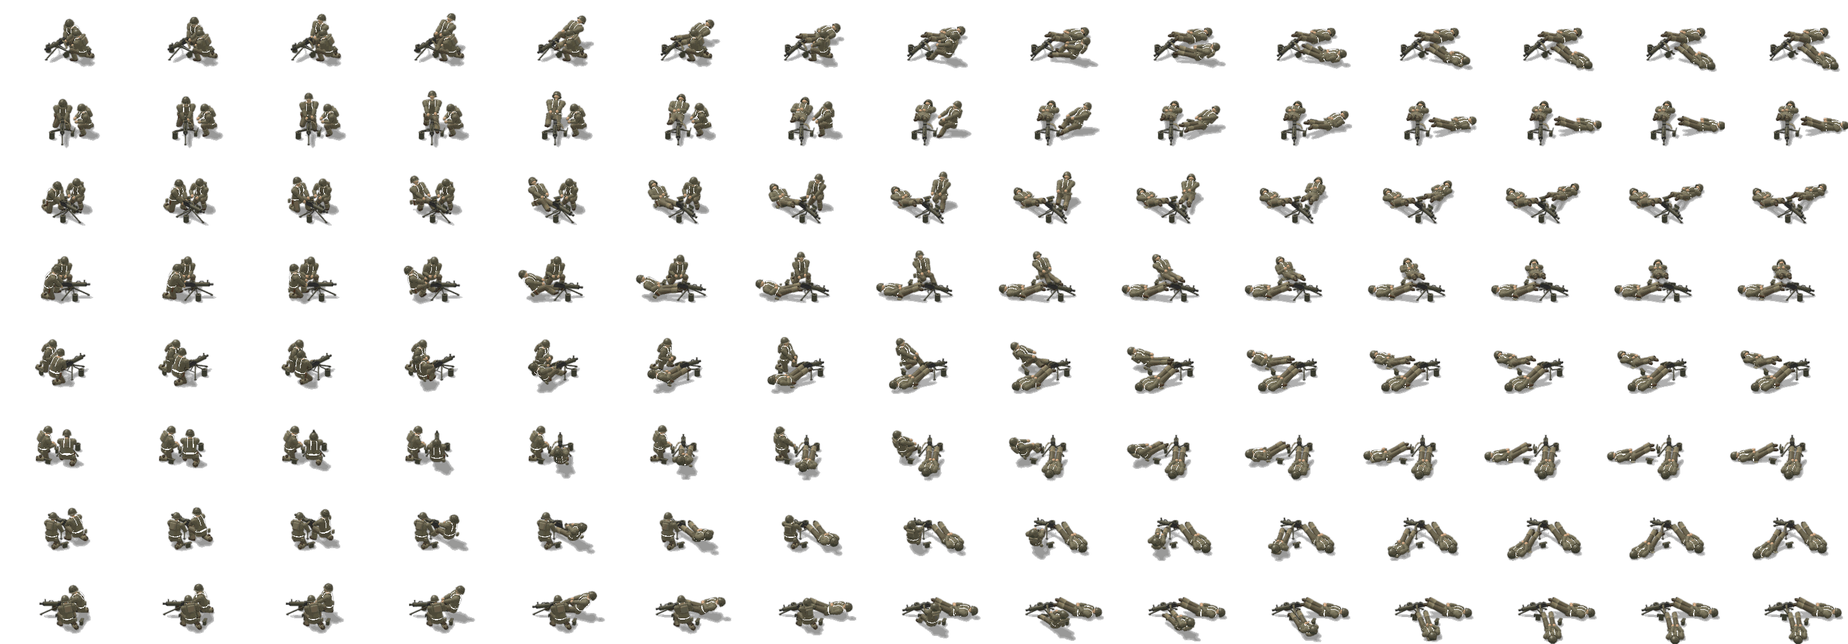
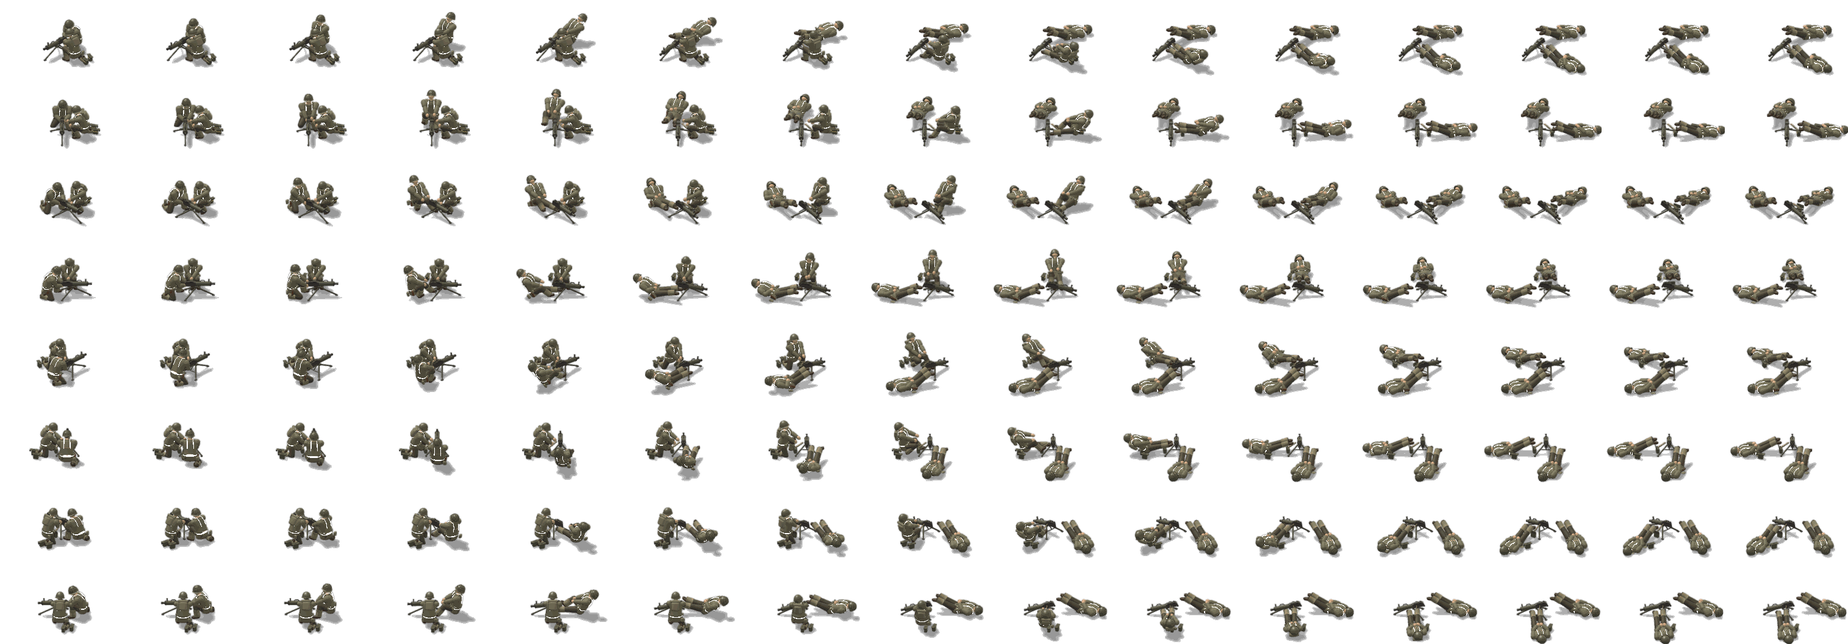
Round 2d: Japanese Rifleman and Battalion after the third review; the Skirmisher's death no longer pops (Militia untouched)
Japanese Rifleman: one smooth horseshoe blanket roll in the civ colour tied with four straps; narrower body, lower collar, head raised; olive tunic over light tan breeches, lighter cartridge boxes; the cap closed underneath with a cloth peak; the bayonet thrust forward and level, back over three frames; death eases out of the idle pose.
Battalion: the gunner low behind the gun, hands on the grip, the assistant at the gun's left feeding the belt from an open M1 can; condenser can and hose removed; recoil and feeding in the attack; a hand on the shouldered gun in the run, the two out of step; the gunner slumps off clear of the gun in the death; darker trousers and pocket flaps.

diff --git a/ArtGen/units/models/line_foot.py b/ArtGen/units/models/line_foot.py
@@ -239,7 +239,8 @@ class LineBody(LF.LeagueBody):
                     add('chest', M.extrude([(-0.04, 0.0), (0.04, 0.0), (0.0, -0.09)], 0.02, top).transformed(
                         M.translate(sx * 0.07, 0.095, 0.33) @ M.rot_z(sx * 22) @ M.rot_x(-30)))
                 elif jk == 'm41':
-                    add('pelvis', _flap(top, (sx * 0.16 * tw, 0.175, 0.02), 0.10, 0.03, 0.02, yaw=sx * 30))
+                    add('pelvis', _flap(self.mm('pocket_flap', '#4e4c36'), (sx * 0.16 * tw, 0.178, 0.02), 0.11, 0.04, 0.024,
+                                        yaw=sx * 30))
                     add('chest', M.rounded_box(0.12, 0.05, 0.016, top, (sx * 0.17, -0.01, 0.315), r=0.006, seg=4, p=4))
                     add('chest', M.extrude([(-0.045, 0.0), (0.045, 0.0), (0.0, -0.08)], 0.02, top).transformed(
                         M.translate(sx * 0.07, 0.09, 0.335) @ M.rot_z(sx * 25) @ M.rot_x(-35)))
@@ -255,7 +256,7 @@ class LineBody(LF.LeagueBody):
                     add('chest', M.rounded_box(0.016, 0.05, 0.045, self.mm('collar_tab', '#a8302a'),
                                                (sx * 0.103, 0.035, 0.33), r=0.005, seg=4).transformed(M.rot_z(sx * 20)))
             if jk == 'type98':
-                add('chest', M.loft([(0.28, 0.105, 0.092, 0, 0.0), (0.36, 0.09, 0.082, 0, -0.004)], top, seg=14,
+                add('chest', M.loft([(0.28, 0.105, 0.092, 0, 0.0), (0.33, 0.092, 0.084, 0, -0.004)], top, seg=14,
                                     cap_bottom=False, cap_top=False))
             if jk == 'jungle':
                 # the placket down the front, in the fatigues' olive
@@ -516,11 +517,11 @@ class LineBody(LF.LeagueBody):
             hm = self.mm('hat', '#7e784c')
             # the crown: straight sides, a flat top with its seam
             add(M.loft([(0.115, 0.118, 0.13, 0, -0.006), (0.20, 0.123, 0.135, 0, -0.01), (0.245, 0.117, 0.129, 0, -0.012),
-                        (0.27, 0.095, 0.105, 0, -0.012), (0.282, 0.05, 0.055, 0, -0.012)], hm, seg=18, cap_bottom=False,
+                        (0.27, 0.095, 0.105, 0, -0.012), (0.282, 0.05, 0.055, 0, -0.012)], hm, seg=18, cap_bottom=True,
                        cap_top=True))
             bd = self.mm('hatband', '#ffffff')
             add(M.cylinder(0.128, 0.128, 0.072, bd, seg=18, z0=0.104).transformed(M.translate(0, -0.006, 0) @ M.scale(1, 1.08, 1)))
-            vm = self.mm('visor', '#3e2c1e', spec=0.15, gloss=14)
+            vm = self.mm('visor', '#7a7448', spec=0.06, gloss=10)
             add(M.ellipsoid(0.095, 0.065, 0.013, vm, (0, 0.135, 0.118), seg=14).transformed(
                 M.translate(0, 0.135, 0.118) @ M.rot_x(26) @ M.translate(0, -0.135, -0.118)))
             add(M.extrude([(0.0, 0.03), (0.009, 0.009), (0.03, 0.009), (0.013, -0.004), (0.019, -0.026), (0.0, -0.012),
@@ -540,7 +541,7 @@ class LineBody(LF.LeagueBody):
 
 # ------------------------------------------------------------ death
 
-def line_death(base, ctx, hold=None, delay=0.0):
+def line_death(base, ctx, hold=None, delay=0.0, late_hands=False, head0=22.0):
     """humanoid.anim_death's fall (struck, staggers back, knees buckle, falls
     on the back), started from the figure's own default pose: the legs from
     its stance, the arms by IK following the chest, so frame 0 is the default
@@ -567,8 +568,8 @@ def line_death(base, ctx, hold=None, delay=0.0):
                  'elbow_l': (-0.6, -0.5, -0.4)}
     k = [
         (0.0, {}),
-        (0.18, dict(hands, root_rot=(12, 0, 6), root_pos=(0, -0.06, -0.02), chest=(12, 0, 8), head=(22, 0, 0),
-                    spine=(0, 0, 0), thigh_r=(10, -4, 0), shin_r=(-18, 0, 0), order=0.0)),
+        (0.18, dict({} if late_hands else hands, root_rot=(12, 0, 6), root_pos=(0, -0.06, -0.02), chest=(12, 0, 8),
+                    head=(head0, 0, 0), spine=(0, 0, 0), thigh_r=(10, -4, 0), shin_r=(-18, 0, 0), order=0.0)),
         (0.38, dict(hands, root_rot=(30, 0, 10), root_pos=(0, -0.22, -0.28), chest=(14, 0, 8), head=(24, 0, 0),
                     thigh_r=(62, -8, 0), shin_r=(-72, 0, 0), thigh_l=(44, 8, 0), shin_l=(-62, 0, 0))),
         (0.62, dict(hands, root_rot=(80, 0, 8), root_pos=(0, -0.55, -0.72), chest=(6, 0, 4), head=(10, 0, 10),
@@ -661,6 +662,22 @@ class LineSoldier(LF.LeagueSoldier):
         finally:
             self.base = saved
 
+    def anim_lunge(self, ctx):
+        if not self.p.get('thrust_level'):
+            return super().anim_lunge(ctx)
+        B = self.base
+        g = self.P('guard')
+        st = ctx.event('reach_max', 0.5) if ctx is not None else 0.5
+        st = min(max(st or 0.5, 0.35), 0.7)
+        jab = dict(g)
+        jab.update({'root_pos': _v((0, 0.30, -0.14)), 'hand_r': _v((0.18, 0.44, 1.16)), 'w_main': _v((-74, 0, 16)),
+                    'foot_l': _v((-0.18, 0.62, A)), 'foot_r': _v((0.2, -0.16, A)), 'toe_r': _v(25.0),
+                    'chest': _v((-8, 0, 6)), 'spine': _v((-6, 0, 0))})
+        g = dict(g, toe_r=B['toe_r'])
+        k = [(0.0, {}), (0.25, g), (0.5, jab), (0.6, jab), (0.78, g), (1.0, {c: B[c] for c in g if c in B})]
+        anim = H.keys(B, k)
+        return FM.Act(lambda t: anim(H._warp(t, [(0.5, st)])))
+
     def frame(self, action, f, n, ctx):
         mesh = super().frame(action, f, n, ctx)
         if self.anim_name(action) == 'death':
@@ -672,7 +689,9 @@ class LineSoldier(LF.LeagueSoldier):
         if self.anim_name(action) == 'death':
             key = (action, ctx.n if ctx else None)
             if key not in self._cache:
-                self._cache[key] = line_death(self.base, ctx, 'port' if self.gun else None)
+                self._cache[key] = line_death(self.base, ctx, 'port' if self.gun else None,
+                                              late_hands=bool(self.p.get('death_late_hands')),
+                                              head0=float(self.p.get('death_head0', 22.0)))
             return self._cache[key]
         return super().action(action, ctx)
 
@@ -778,66 +797,90 @@ class LineMgTeam:
             self._cache[k] = LG.m1917(self.mats, belt=belt).transformed(M.scale(1.35, 1.35, 1.0))
         return self._cache[k]
 
-    # -- the march (RUN): the gunner carries the gun by its handle at his right side, the
-    # assistant the folded tripod over his left shoulder and a can in his right hand
+    # -- the march (RUN): the gun on the gunner's right shoulder, his right hand on its jacket;
+    # the assistant with the folded tripod over his left shoulder and a can in his right hand,
+    # a quarter step out of phase
     TRIPOD_ON_SHOULDER = M.translate(-0.25, 0.10, 0.40) @ M.rot_x(-62) @ M.translate(0, 0, -0.40)
-    HANDLE = (0.0, -0.10 * 1.35, 0.47)
     GUN_ON_SHOULDER = M.translate(0.25, -0.14, 0.43) @ M.rot_z(-30) @ M.rot_x(-97)
+    CHEST_REST = 0.92 + 0.08 + 0.20
 
     def _march(self, action, t, n):
         G_, A_ = self.gunner, self.assistant
         out = []
-        for who, at, phase, role in ((G_, self.gunner_at, 0.0, 'gun'), (A_, self.assistant_at, 0.5, 'tripod')):
+        # where the gunner's hand holds the jacket, in model space of an upright figure
+        hold = (self.GUN_ON_SHOULDER @ _v((0, 0.06 * 1.35, 0.46, 1.0)).reshape(4, 1))[:3, 0] + _v((0, 0, self.CHEST_REST))
+        for who, at, phase, role in ((G_, self.gunner_at, 0.0, 'gun'), (A_, self.assistant_at, 0.27, 'tripod')):
             p = H.anim_run(who.base, 'spear', 'shield_round', n).fn((t + phase) % 1.0)
             p['follow'] = _v(1.0)
             if role == 'gun':
-                p['hand_r'] = _v((0.22, 0.34, 1.50))
-                p['elbow_r'] = _v((0.9, -0.3, -0.4))
+                p['hand_r'] = _v(hold) + _v((0.0, 0.0, -0.03))
+                p['elbow_r'] = _v((0.9, -0.2, -0.5))
             else:
                 p['hand_l'] = _v((-0.20, 0.30, 1.48))
                 p['elbow_l'] = _v((-0.9, -0.3, -0.4))
                 p['hand_r'] = _v((0.34, 0.02, 0.80)) + (p['hand_r'] - who.base['hand_r']) * 0.4
             m, info = who.pose_full(p, FM.Act(None, loop=True), None, None)
+            C = info['W']['chest']
             if role == 'gun':
-                C = info['W']['chest']
                 m = M.Mesh.concat([m, self._gun().transformed(C @ self.GUN_ON_SHOULDER)])
             else:
-                C = info['W']['chest']
                 m = M.Mesh.concat([m, LG.m1917_tripod(self.mats, h=0.40, folded=True).transformed(C @ self.TRIPOD_ON_SHOULDER)])
                 T = info['T']['r']
                 m = M.Mesh.concat([m, LG.ammo_can_carried(self.mats).transformed(M.translate(*T[:3, 3]) @ M.rot_z(8))])
             out.append(m.transformed(M.translate(*at)))
         return out
 
-    # -- in action (also the default pose, like the stock TOW team)
+    # -- in action (also the default pose, like the stock TOW team): the gunner sits low behind
+    # the gun, hands on the grip; the assistant kneels at the gun's left, facing the receiver,
+    # feeding the belt from the open can between them
+    GPOS = (-0.02, -0.86)
+    APOS = (-0.80, -0.12)
+    AYAW = -90.0
+
     def _gunner_pose(self, recoil=0.0):
         B = self.gunner.base
-        k = {'root_pos': (0.0, -0.06, -0.50), 'foot_l': (-0.20, 0.22, A), 'foot_r': (0.20, -0.30, 0.10),
-             'toe_r': 50.0, 'fyaw_r': -20.0, 'spine': (-18, 0, 0), 'chest': (-14, 0, 0), 'head': (12, 0, 0),
+        k = {'root_pos': (0.0, -0.08, -0.58), 'foot_l': (-0.22, 0.26, A), 'foot_r': (0.22, -0.28, 0.10),
+             'toe_r': 50.0, 'fyaw_r': -20.0, 'spine': (-22, 0, 0), 'chest': (-16, 0, 0), 'head': (16, 0, 0),
              'elbow_r': (0.8, -0.5, -0.4), 'elbow_l': (-0.8, -0.5, -0.4)}
         p = dict(B)
         p.update({c: _v(v) for c, v in k.items()})
         p['follow'] = _v(0.0)
         p['support'] = _v(0.0)
-        p['root_pos'] = p['root_pos'] + _v((0, -0.025, 0)) * recoil
+        p['root_pos'] = p['root_pos'] + _v((0, -0.045, 0.0)) * recoil
+        p['chest'] = p['chest'] + _v((4, 0, 0)) * recoil
         return p
 
-    def _assistant_pose(self, t, action='DEFAULT'):
+    def _to_local(self, world, at, yaw):
+        c, s = math.cos(math.radians(-yaw)), math.sin(math.radians(-yaw))
+        d = _v(world) - _v(at)
+        return _v((c * d[0] - s * d[1], s * d[0] + c * d[1], d[2]))
+
+    def _feed_points(self, GT):
+        """The belt from the open can up into the feedway on the gun's left."""
+        feed = (GT @ _v((-0.10 * 1.35, -0.05, 0.07, 1.0)).reshape(4, 1))[:3, 0]
+        can = _v((self.mount[0] - 0.42, self.mount[1] - 0.12, 0.20))
+        mid = (feed + can) / 2 + _v((-0.02, 0.0, -0.02))
+        return feed, mid, can
+
+    def _assistant_pose(self, t, action='DEFAULT', GT=None, f=0, n=15):
         B = self.assistant.base
-        s = math.sin(2 * math.pi * t)
-        feed = action in ('ATTACK1', 'FORTIFY')
-        k = {'root_pos': (0.0, 0.0, -0.50), 'foot_l': (-0.18, 0.24, A), 'foot_r': (0.18, -0.34, 0.10),
-             'toe_r': 50.0, 'fyaw_r': -10.0, 'spine': (-16, 0, 0), 'chest': (-8, 0, -14), 'head': (10, 0, -10),
-             'hand_r': (0.30, 0.36, 0.52 + (0.025 * s if feed else 0.0)), 'hand_l': (0.06, 0.40, 0.48),
-             'elbow_r': (0.6, -0.6, -0.4), 'elbow_l': (-0.6, -0.6, -0.4)}
+        apos = _v((self.mount[0] + self.APOS[0], self.mount[1] + self.APOS[1], 0))
+        feed, mid, can = self._feed_points(GT if GT is not None else self._gun_T())
+        pull = 0.0
+        if action in ('ATTACK1', 'FORTIFY'):
+            pull = 0.5 + 0.5 * math.sin(2 * math.pi * t * 3)
+        hl = self._to_local(feed + _v((-0.05, 0.0, 0.02)), apos, self.AYAW)
+        hr = self._to_local(mid * (1 - 0.3 * pull) + can * 0.3 * pull + _v((0, 0, 0.03)), apos, self.AYAW)
+        k = {'root_pos': (0.0, 0.0, -0.52), 'foot_l': (-0.18, 0.22, A), 'foot_r': (0.18, -0.34, 0.10),
+             'toe_r': 50.0, 'fyaw_r': -10.0, 'spine': (-20, 0, 0), 'chest': (-10, 0, 0), 'head': (14, 0, 8),
+             'hand_r': tuple(hr), 'hand_l': tuple(hl), 'elbow_r': (0.6, -0.6, -0.4), 'elbow_l': (-0.6, -0.6, -0.4)}
         if action == 'FIDGET':
-            k['head'] = (6, 0, -10 + 45 * math.sin(math.pi * t))
-            k['chest'] = (-8, 0, -14 + 12 * math.sin(math.pi * t))
+            k['head'] = (6, 0, 8 + 40 * math.sin(math.pi * t))
         if action == 'VICTORY':
             u = max(0.0, math.sin(math.pi * min(1.0, t / 0.85)))
-            k['hand_l'] = (-0.30 * u + 0.06 * (1 - u), 0.10 * u + 0.40 * (1 - u), 0.48 + 1.40 * u)
-            k['elbow_l'] = (-0.8, -0.3, 0.2)
-            k['spine'] = (-16 + 14 * u, 0, 0)
+            k['hand_r'] = tuple(_v(hr) * (1 - u) + _v((0.30, 0.10, 1.90)) * u)
+            k['elbow_r'] = (0.8, -0.3, 0.2)
+            k['spine'] = (-20 + 18 * u, 0, 0)
         p = dict(B)
         p.update({c: _v(v) for c, v in k.items()})
         p['follow'] = _v(0.0)
@@ -845,32 +888,38 @@ class LineMgTeam:
 
     def _gun_T(self, recoil=0.0, tip=0.0):
         m = self.mount
-        return M.translate(m[0], m[1] - 0.26 - 0.03 * recoil, self.tri_h + 0.09 - 0.07 * tip) @ M.rot_x(-90 - 14 * tip)
+        return M.translate(m[0], m[1] - 0.26 - 0.05 * recoil, self.tri_h + 0.09 - 0.07 * tip) @ M.rot_x(-90 - 14 * tip)
 
     def _ground_kit(self):
         m = self.mount
         out = [LG.m1917_tripod(self.mats, h=self.tri_h).transformed(M.translate(*m))]
-        out.append(LG.ammo_can(self.mats, lid_open=True).transformed(M.translate(m[0] - 0.40, m[1] - 0.10, 0) @ M.rot_z(-10)))
-        out.append(LG.ammo_can(self.mats).transformed(M.translate(m[0] - 0.75, m[1] - 0.95, 0) @ M.rot_z(70)))
-        cc = _v((m[0] + 0.40, m[1] + 0.10, 0.0))
-        out.append(LG.condenser_can(self.mats).transformed(M.translate(*cc)))
-        return out, cc
+        # the open can the belt comes from, beside the receiver; a full one behind the assistant
+        out.append(LG.ammo_can(self.mats, lid_open=True).transformed(M.translate(m[0] - 0.42, m[1] - 0.12, 0) @ M.rot_z(10)))
+        out.append(LG.ammo_can(self.mats).transformed(M.translate(m[0] - 1.15, m[1] - 0.55, 0) @ M.rot_z(70)))
+        out.append(LG.ammo_can(self.mats).transformed(M.translate(m[0] - 1.22, m[1] - 0.25, 0) @ M.rot_z(80)))
+        return out
 
-    GPOS = (-0.02, -0.86)
-    APOS = (-0.95, -0.42)
-
-    def _hose(self, GT, cc):
-        fit = (GT @ _v((0, 0.055 * 1.35, 0.26, 1.0)).reshape(4, 1))[:3, 0]
-        return LG.hose(self.mats, [tuple(fit), tuple(fit + _v((0.10, 0.02, -0.12))), tuple(cc + _v((-0.05, -0.04, 0.27))),
-                                   tuple(cc + _v((0, 0, 0.28)))])
+    def _belt(self, pts):
+        cl = self.gunner.body.mm('belt_cloth', '#8a7e5e')
+        br = LG.brass(self.mats)
+        out = []
+        for a, b in zip(pts[:-1], pts[1:]):
+            for k in range(4):
+                u = (k + 0.5) / 4
+                c = a + (b - a) * u
+                out.append(M.box(0.05, 0.03, 0.03, cl, tuple(c)))
+                out.append(M.capsule(tuple(c + _v((-0.04, 0, 0.012))), tuple(c + _v((0.04, 0, 0.012))), 0.008, 0.006, br,
+                                     seg=5, rings=1))
+        return M.Mesh.concat(out)
 
     def _deployed(self, action, t, f, n):
-        meshes, cc = self._ground_kit()
+        meshes = self._ground_kit()
         shots = self.shots(action)
         recoil = self.gunner._recoil(t, n, shots) if shots else 0.0
         GT = self._gun_T(recoil)
-        meshes.append(self._gun(belt=True).transformed(GT))
-        meshes.append(self._hose(GT, cc))
+        meshes.append(self._gun().transformed(GT))
+        feed, mid, can = self._feed_points(GT)
+        meshes.append(self._belt([feed, mid, can]))
         grip = (GT @ _v((0, 0.11, -0.15, 1.0)).reshape(4, 1))[:3, 0]
         gpos = _v((self.mount[0] + self.GPOS[0], self.mount[1] + self.GPOS[1], 0))
         p = self._gunner_pose(recoil)
@@ -881,8 +930,8 @@ class LineMgTeam:
         gm, _ = self.gunner.pose_full(p, FM.Act(None), None, None)
         meshes.append(gm.transformed(M.translate(*gpos)))
         apos = _v((self.mount[0] + self.APOS[0], self.mount[1] + self.APOS[1], 0))
-        am, _ = self.assistant.pose_full(self._assistant_pose(t, action), FM.Act(None), None, None)
-        meshes.append(am.transformed(M.translate(*apos) @ M.rot_z(-60)))
+        am, _ = self.assistant.pose_full(self._assistant_pose(t, action, GT, f, n), FM.Act(None), None, None)
+        meshes.append(am.transformed(M.translate(*apos) @ M.rot_z(self.AYAW)))
         if f in shots:
             mz = (GT @ _v((0, 0, LG.GUNS['m1917']['muzzle'], 1.0)).reshape(4, 1))[:3, 0]
             self._fx.append({'kind': 'flash', 'pos': mz, 'dir': _v((0, 1, 0)), 'size': 0.30})
@@ -894,14 +943,15 @@ class LineMgTeam:
         return meshes
 
     def _death(self, t, n):
-        """From the default pose: the gunner is hit first and slumps over onto
-        his right side; the assistant a beat later falls back off his knee.
-        The gun, no longer held, tips forward on its tripod over a few frames."""
-        meshes, cc = self._ground_kit()
+        """From the default pose: the gunner is hit first, lets go of the grip and slumps back
+        and to his right, off the gun and clear of the tripod; the assistant, a beat later,
+        falls back from the gun's side. The gun, no longer held, tips forward over a few frames."""
+        meshes = self._ground_kit()
         tip = min(1.0, max(0.0, (t - 0.18) / 0.22))
         GT = self._gun_T(0.0, tip)
-        meshes.append(self._gun(belt=True).transformed(GT))
-        meshes.append(self._hose(GT, cc))
+        meshes.append(self._gun().transformed(GT))
+        feed, mid, can = self._feed_points(GT)
+        meshes.append(self._belt([feed, mid, can]))
         grip = (self._gun_T() @ _v((0, 0.11, -0.15, 1.0)).reshape(4, 1))[:3, 0]
         gpos = _v((self.mount[0] + self.GPOS[0], self.mount[1] + self.GPOS[1], 0))
         K = self._gunner_pose()
@@ -909,27 +959,28 @@ class LineMgTeam:
         K['hand_l'] = grip - gpos + _v((-0.09, 0.08, 0.06))
         belly = {'hand_r': (0.14, 0.24, 0.90), 'hand_l': (-0.04, 0.26, 0.94), 'follow': 1.0}
         kg = H.keys(K, [(0.0, {}),
-                        (0.12, {'chest': (10, 0, 6), 'head': (24, 0, 0), 'root_pos': (0.0, -0.10, -0.47)}),
-                        (0.34, dict(belly, root_rot=(50, 0, -12), root_pos=(0.04, -0.32, -0.64), chest=(6, 0, 4),
-                                    spine=(0, 0, 0), head=(14, 0, -10), foot_r=(0.20, -0.10, A), toe_r=20.0)),
-                        (0.52, dict(belly, root_rot=(84, 0, -14), root_pos=(0.06, -0.50, -0.78), chest=(0, 0, 0),
-                                    head=(-4, 0, -18), foot_r=(0.22, 0.10, A), foot_l=(-0.16, 0.26, A), toe_r=0.0)),
-                        (1.0, dict(belly, root_rot=(88, 0, -14), root_pos=(0.06, -0.52, -0.79), chest=(0, 0, 0),
-                                   head=(-8, 0, -22), foot_r=(0.24, 0.14, A), foot_l=(-0.14, 0.30, A), toe_r=0.0))])
-        L = self._assistant_pose(0.0)
+                        (0.12, {'chest': (2, 0, 6), 'head': (26, 0, 0), 'root_pos': (0.0, -0.12, -0.56)}),
+                        (0.34, dict(belly, root_rot=(46, 0, -20), root_pos=(0.12, -0.38, -0.68), chest=(6, 0, 4),
+                                    spine=(0, 0, 0), head=(14, 0, -10), foot_r=(0.24, -0.20, A), foot_l=(-0.12, 0.06, A),
+                                    toe_r=20.0)),
+                        (0.52, dict(belly, root_rot=(84, 0, -26), root_pos=(0.24, -0.62, -0.78), chest=(0, 0, 0),
+                                    head=(-4, 0, -18), foot_r=(0.30, -0.02, A), foot_l=(-0.06, 0.02, A), toe_r=0.0)),
+                        (1.0, dict(belly, root_rot=(88, 0, -30), root_pos=(0.28, -0.66, -0.79), chest=(0, 0, 0),
+                                   head=(-8, 0, -22), foot_r=(0.32, 0.00, A), foot_l=(-0.04, 0.04, A), toe_r=0.0))])
+        apos = _v((self.mount[0] + self.APOS[0], self.mount[1] + self.APOS[1], 0))
+        L = self._assistant_pose(0.0, 'DEFAULT', self._gun_T())
         ka = H.keys(L, [(0.0, {}), (0.30, {}),
-                        (0.42, {'chest': (14, 0, -10), 'head': (24, 0, -10), 'root_pos': (0.0, -0.06, -0.48)}),
+                        (0.42, {'chest': (14, 0, -10), 'head': (24, 0, -10), 'root_pos': (0.0, -0.06, -0.50)}),
                         (0.66, dict(belly, root_rot=(55, 0, 6), root_pos=(0.0, -0.34, -0.66), chest=(6, 0, 0),
                                     spine=(0, 0, 0), head=(12, 0, 10), foot_r=(0.18, -0.05, A), toe_r=20.0)),
-                        (0.84, dict(belly, root_rot=(86, 0, -24), root_pos=(-0.08, -0.52, -0.78), chest=(0, 0, 0),
+                        (0.84, dict(belly, root_rot=(86, 0, 10), root_pos=(0.0, -0.52, -0.78), chest=(0, 0, 0),
                                     head=(-6, 0, 18), foot_r=(0.18, 0.12, A), foot_l=(-0.18, 0.30, A), toe_r=0.0)),
-                        (1.0, dict(belly, root_rot=(88, 0, -28), root_pos=(-0.10, -0.54, -0.79), chest=(0, 0, 0),
+                        (1.0, dict(belly, root_rot=(88, 0, 12), root_pos=(0.0, -0.54, -0.79), chest=(0, 0, 0),
                                    head=(-8, 0, 20), foot_r=(0.18, 0.14, A), foot_l=(-0.18, 0.32, A), toe_r=0.0))])
         gm, _ = self.gunner.pose_full(kg(t), FM.Act(None), None, None)
         meshes.append(gm.transformed(M.translate(*gpos)))
-        apos = _v((self.mount[0] + self.APOS[0], self.mount[1] + self.APOS[1], 0))
         am, _ = self.assistant.pose_full(ka(t), FM.Act(None), None, None)
-        meshes.append(am.transformed(M.translate(*apos) @ M.rot_z(-60)))
+        meshes.append(am.transformed(M.translate(*apos) @ M.rot_z(self.AYAW)))
         return meshes
 
     def frame(self, action, f, n, ctx):

diff --git a/ArtGen/units/models/line_gear.py b/ArtGen/units/models/line_gear.py
@@ -371,19 +371,14 @@ def ija_knapsack(mats):
     # the horseshoe roll: over the top and down both sides
     pts = [(-0.19, -0.21, -0.02), (-0.20, -0.21, 0.18), (-0.12, -0.21, 0.30), (0.0, -0.21, 0.32),
            (0.12, -0.21, 0.30), (0.20, -0.21, 0.18), (0.19, -0.21, -0.02)]
+    # one smooth roll over the top and down both sides, tied by four thin straps
     for a, b in zip(pts[:-1], pts[1:]):
-        a, b = np.array(a, np.float32), np.array(b, np.float32)
-        d = b - a
-        L = float(np.linalg.norm(d))
-        # a roll of cloth: fat between the ties, pinched at them, a fold ridge along it
-        seg = M.lathe([(0.0, 0.062), (0.2, 0.085), (0.5, 0.092), (0.8, 0.085), (1.0, 0.062)], roll, seg=12)
-        parts.append(seg.transformed(M.look_along(tuple(a), tuple(b))))
-        parts.append(M.capsule(tuple(a + d * 0.2 + (0, -0.084, 0)), tuple(a + d * 0.8 + (0, -0.084, 0)), 0.012, 0.012,
-                               roll, seg=5, rings=1))
-        # the tie at each joint
-        parts.append(M.sphere(0.07, st, tuple(a), seg=10))
-    parts.append(M.sphere(0.07, st, tuple(pts[-1]), seg=10))
-    parts.append(M.box(0.31, 0.016, 0.02, st, (0, -0.21, 0.31)))
+        parts.append(M.capsule(a, b, 0.07, 0.07, roll, seg=12, rings=1))
+    for i in (1, 2, 4, 5):
+        a = np.array(pts[i], np.float32)
+        d = np.array(pts[i + 1], np.float32) - np.array(pts[i - 1], np.float32)
+        ring = M.cylinder(0.074, 0.074, 0.018, st, seg=12, z0=-0.009)
+        parts.append(ring.transformed(M.look_along(tuple(a), tuple(a + d / np.linalg.norm(d)))))
     parts.append(M.rounded_box(0.16, 0.05, 0.12, tin, (0, -0.29, 0.10), r=0.03, seg=8, p=3))           # mess tin
     for x in (-0.1, 0.1):
         parts.append(M.capsule((x, -0.15, 0.27), (x, 0.06, 0.30), 0.016, 0.016, st, seg=5, rings=1))

diff --git a/ArtGen/units/catalog/modern_mod_foot.py b/ArtGen/units/catalog/modern_mod_foot.py
@@ -154,7 +154,7 @@ UNITS = {
         'gun': 'm14', 'hold': 'low', 'aim': 'shoulder',
         'poses': {'carry': {'hand_r': (0.22, 0.18, 0.94), 'w_main': (-48, -52, 0), 'support': 1.0,
                             'elbow_l': (-0.5, -0.5, -0.7)}}, 'fire_start': 'carry', 'fire_end': 'carry',
-        'flash': 'burst', 'smoke': 'light', 'shots': {'ATTACK1': [3, 4, 5]},
+        'flash': 'burst', 'smoke': 'light', 'shots': {'ATTACK1': [3, 4, 5]}, 'death_late_hands': True,
         'fortify': 'kneel', 'victory': 'raise',
         'actions': dict(_FIRE),
     },
@@ -169,7 +169,7 @@ UNITS = {
         'archetype': 'line_mg_team',
         'scale': 0.72,
         'soldier': {
-            'colors': {'skin': '#c89c74', 'hair': '#2a2018', 'helmet': '#5a5a46', 'trousers': '#6a5a44',
+            'colors': {'skin': '#c89c74', 'hair': '#2a2018', 'helmet': '#5a5a46', 'trousers': '#4e4234',
                        'top': '#6e6a4e',
                        'boots': '#4a3020', 'belt': '#7a7458', 'strap': '#7a7458', 'leggings': '#857a56',
                        'pack': '#7a7058'},
@@ -177,7 +177,7 @@ UNITS = {
             'hair': 'short', 'hat': 'm1_net', 'top': 'long_sleeved', 'jacket': 'm41', 'legs': 'trousers',
             'feet': 'shoes', 'leg_wear': 'leggings', 'straps': ['braces'],
         },
-        'gunner': {'kit': ['holster', 'canteen_ww2'], 'build': {'bulk': 1.06}},
+        'gunner': {'kit': ['holster', 'canteen_ww2', 'cartridge_belt'], 'build': {'bulk': 1.06}},
         'assistant': {'kit': ['cartridge_belt', 'canteen_ww2'], 'pack': 'field', 'hat': 'm1',
                       'build': {'bulk': 0.93, 'height': 0.97}},
         'desat': 0.85,

diff --git a/ArtGen/units/catalog/league_foot.py b/ArtGen/units/catalog/league_foot.py
@@ -56,8 +56,10 @@ UNITS = {
     # bayonet.
     'Japanese Rifleman': {
         'archetype': 'line_soldier',
-        'build': {'bulk': 0.96},
-        'colors': {'skin': '#d0a47a', 'hair': '#1a1410', 'top': '#8a8658', 'trousers': '#aa9c72',
+        'build': {'bulk': 0.9},
+        'stance': {'head': (10, 0, 0)},
+        'death_late_hands': True, 'death_head0': 6.0, 'thrust_level': True,
+        'colors': {'skin': '#d0a47a', 'hair': '#1a1410', 'top': '#7e7c4c', 'trousers': '#b4a67e', 'pouch': '#7a5430',
                    'stockings': '#7a6e4a', 'hat': '#8e8858', 'havelock': '#8e8858', 'boots': '#4a3424', 'belt': '#4a3424', 'strap': '#5a4a30',
                    'pack': '#7a6e4a', 'stock': '#7a4e2c', 'puttees': '#4e4a34'},
         'tint': ['hatband', 'blanket'],
